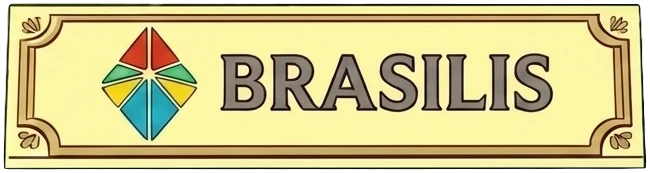
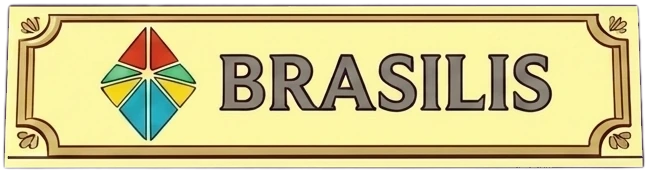
Placa: corrige borda (tom verde e anel de chroma key) (#61)
Claude-Session: https://claude.ai/code/session_01U48bm5Z4vR1opWpFs2CVT1

diff --git a/brasilis/index.html b/brasilis/index.html
@@ -104,7 +104,7 @@
     <div class="layer bgl" data-depth="0.2"><img class="full" src="assets/cenario/camadas/fundo.webp?v=4" alt="" draggable="false"></div>
     <div class="layer bgl" data-depth="0.32"><img class="sway palm" src="assets/cenario/camadas/palmeiras.webp?v=2" alt="" draggable="false" style="left:0%;top:4.688%;width:22.965%"></div>
     <div class="layer bgl" data-depth="0.32"><img class="sway tree" src="assets/cenario/camadas/arvore.webp?v=2" alt="" draggable="false" style="left:77.253%;top:0%;width:22.747%"></div>
-    <div class="layer bgl" data-depth="0.42"><img src="assets/cenario/camadas/placa.webp?v=4" alt="" draggable="false" style="left:26.962%;top:2.474%;width:47.238%"></div>
+    <div class="layer bgl" data-depth="0.42"><img src="assets/cenario/camadas/placa.webp?v=5" alt="" draggable="false" style="left:27.035%;top:2.474%;width:47.093%"></div>
     <div class="layer bgl" data-depth="0.7"><img src="assets/cenario/camadas/grade.webp?v=2" alt="" draggable="false" style="left:0%;top:57.552%;width:100%"></div>
   </div>
   <div class="layer" id="ground" data-depth="0.1"></div>
